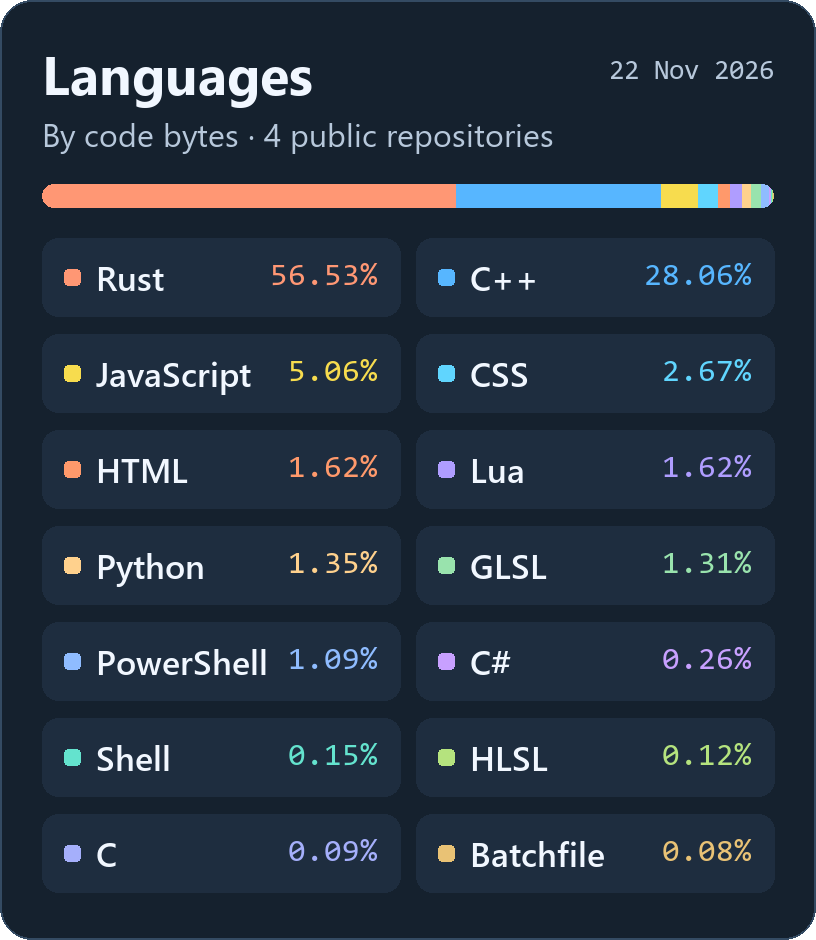
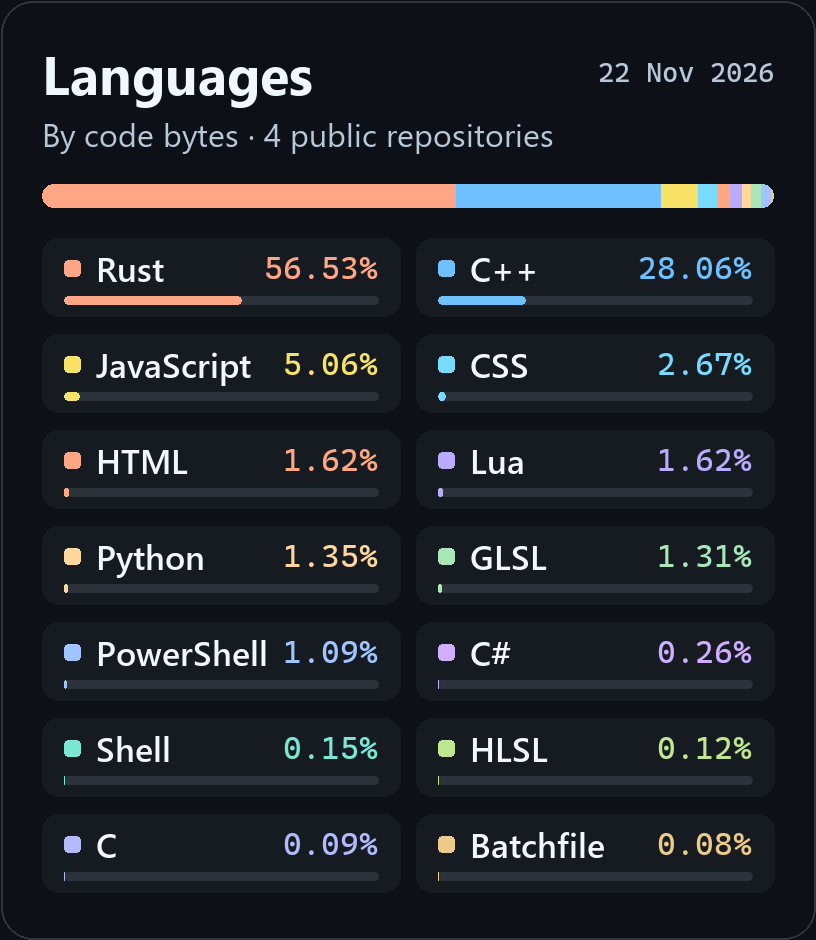
Animate profile language statistics

diff --git a/README.md b/README.md
@@ -9,8 +9,10 @@
 
 <p align="center">
   <picture>
-    <source media="(max-width: 600px)" srcset="./assets/languages-mobile.png">
-    <img src="./assets/languages.png" alt="Languages by bytes of code across four public repositories, 22 Nov 2026. Rust 56.53%, C++ 28.06%, JavaScript 5.06%, CSS 2.67%, HTML 1.62%, Lua 1.62%, Python 1.35%, GLSL 1.31%, PowerShell 1.09%, C# 0.26%, Shell 0.15%, HLSL 0.12%, C 0.09%, Batchfile 0.08%.">
+    <source media="(max-width: 600px) and (prefers-reduced-motion: reduce)" srcset="./assets/languages-mobile.png">
+    <source media="(prefers-reduced-motion: reduce)" srcset="./assets/languages.png">
+    <source media="(max-width: 600px)" srcset="./assets/languages-mobile.gif">
+    <img src="./assets/languages.gif" alt="Languages by bytes of code across four public repositories, 22 Nov 2026. Rust 56.53%, C++ 28.06%, JavaScript 5.06%, CSS 2.67%, HTML 1.62%, Lua 1.62%, Python 1.35%, GLSL 1.31%, PowerShell 1.09%, C# 0.26%, Shell 0.15%, HLSL 0.12%, C 0.09%, Batchfile 0.08%.">
   </picture>
 </p>
 
